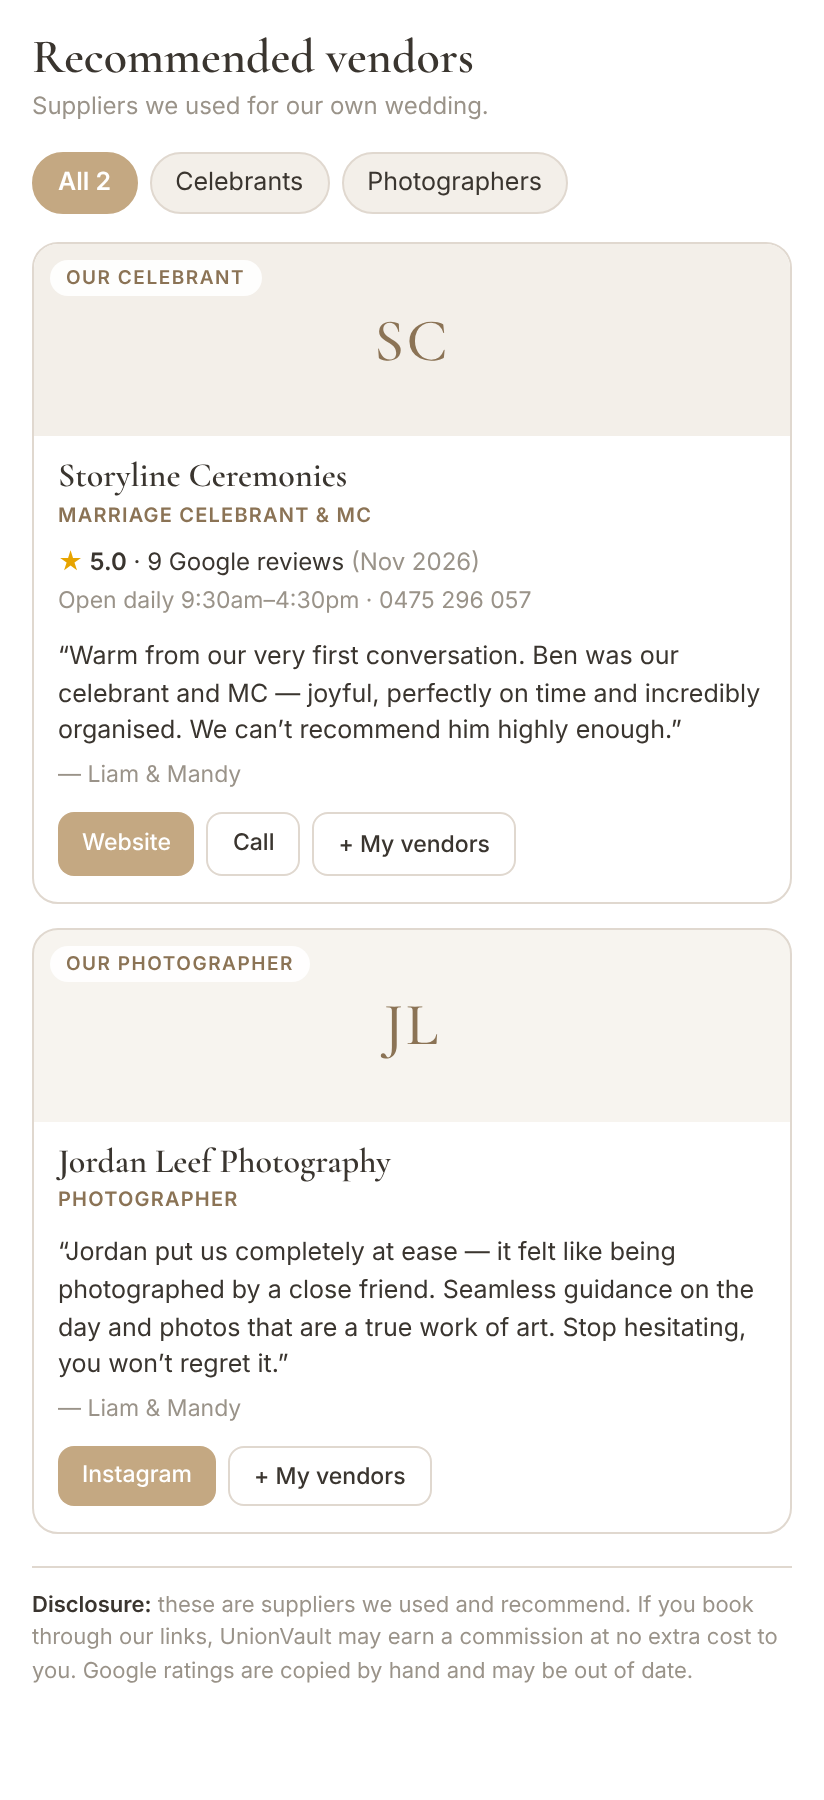
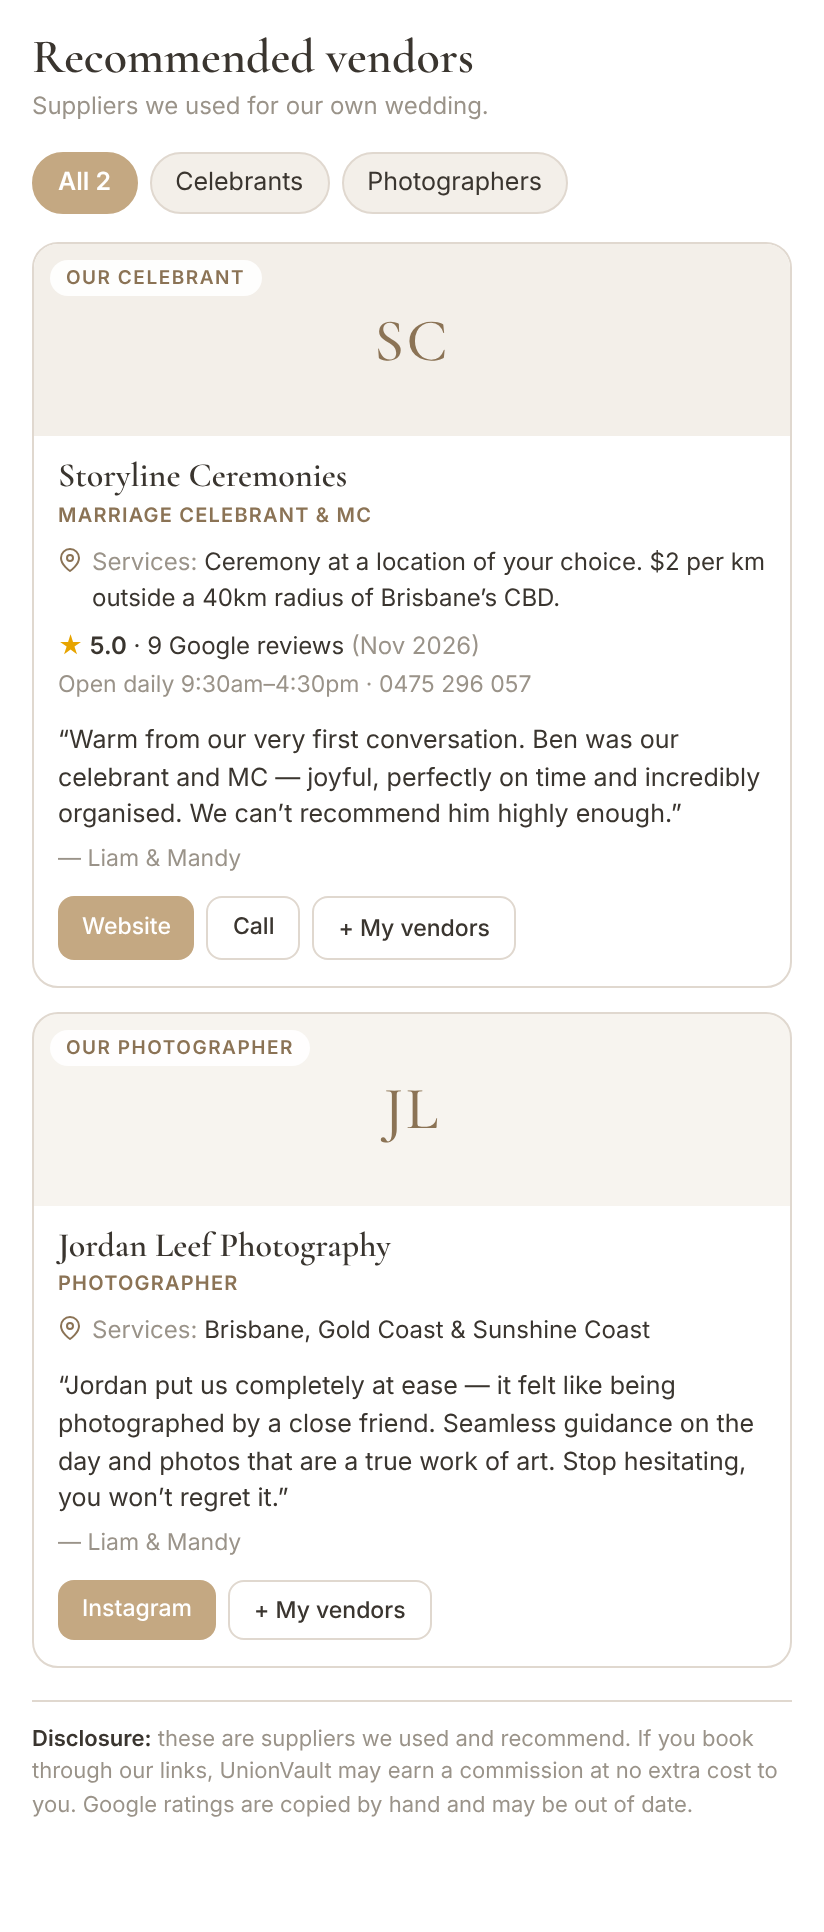
Recommended vendors: service areas for Storyline Ceremonies and Jordan Leef Photography (v512.0)
Claude-Session: https://claude.ai/code/session_019ebu8yvW7sYrHwDzmKtRqL

diff --git a/js/invitations.js b/js/invitations.js
@@ -448,13 +448,13 @@ function _vluMsgBack(){
    taken ("as of"), so it never claims to be live. Links open as "sponsored" (affiliate). */
 const VLU_VENDORS = [
   { id:'storyline', mono:'SC', name:'Storyline Ceremonies', cat:'Celebrants', catLabel:'Marriage Celebrant & MC', tag:'Our celebrant',
-    area:'' /* e.g. 'Brisbane, Gold Coast & Ipswich' — shown as "Services: …" once filled in */,
+    area:'Ceremony at a location of your choice. $2 per km outside a 40km radius of Brisbane\u2019s CBD.',
     rating:{ score:5.0, count:9, asOf:'2026-11' }, phone:'0475 296 057', hours:'Open daily 9:30am\u20134:30pm',
     note:'Warm from our very first conversation. Ben was our celebrant and MC \u2014 joyful, perfectly on time and incredibly organised. We can\u2019t recommend him highly enough.',
     byline:'\u2014 Liam & Mandy',
     links:{ website:'https://storylineceremonies.com.au/', book:'' } },
   { id:'jordanleef', mono:'JL', name:'Jordan Leef Photography', cat:'Photographers', catLabel:'Photographer', tag:'Our photographer',
-    area:'' /* service area — shown as "Services: …" once filled in */,
+    area:'Brisbane, Gold Coast & Sunshine Coast',
     rating:null, phone:'', hours:'',
     note:'Jordan put us completely at ease \u2014 it felt like being photographed by a close friend. Seamless guidance on the day and photos that are a true work of art. Stop hesitating, you won\u2019t regret it.',
     byline:'\u2014 Liam & Mandy',

diff --git a/js/autocomplete.js b/js/autocomplete.js
@@ -146,7 +146,7 @@ function _acPick(inputId, name){
 // can land a launch late — and there was previously NO way to tell which build was
 // actually running. Diagnosing "I uploaded it but nothing changed" meant hunting for
 // whether a feature happened to appear. Bump this with every release.
-const APP_BUILD='v511.9';
+const APP_BUILD='v512.0';
 const APP_BUILD_DATE='2026-11-08';
 function _seatingPrintHtml(forPreview){
   const ev=STATE.event||{};

diff --git a/sw.js b/sw.js
@@ -1,4 +1,4 @@
-const CACHE = 'union-vault-v511.9';
+const CACHE = 'union-vault-v512.0';
 const SHELL = [
   '/', '/index.html',
   '/css/fonts.css', '/css/app.css', '/css/landing.css', '/css/setup-wizard.css',
